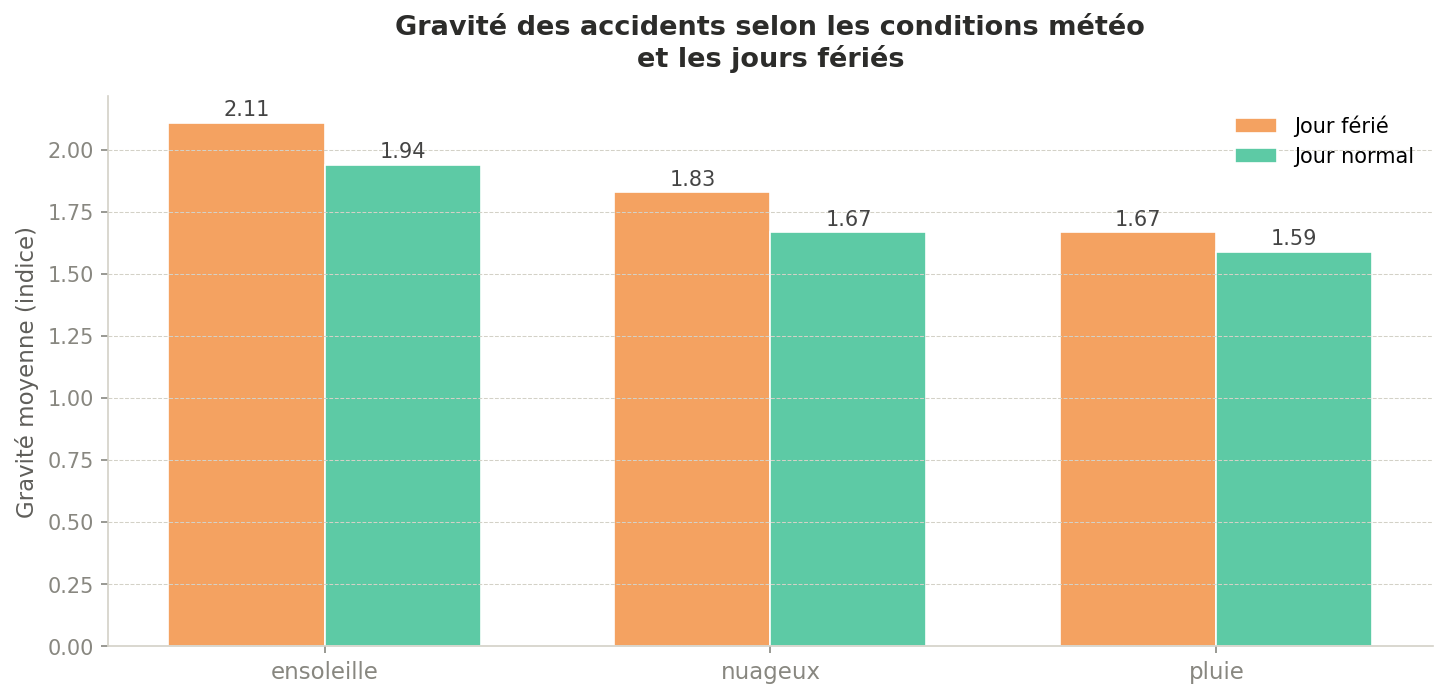
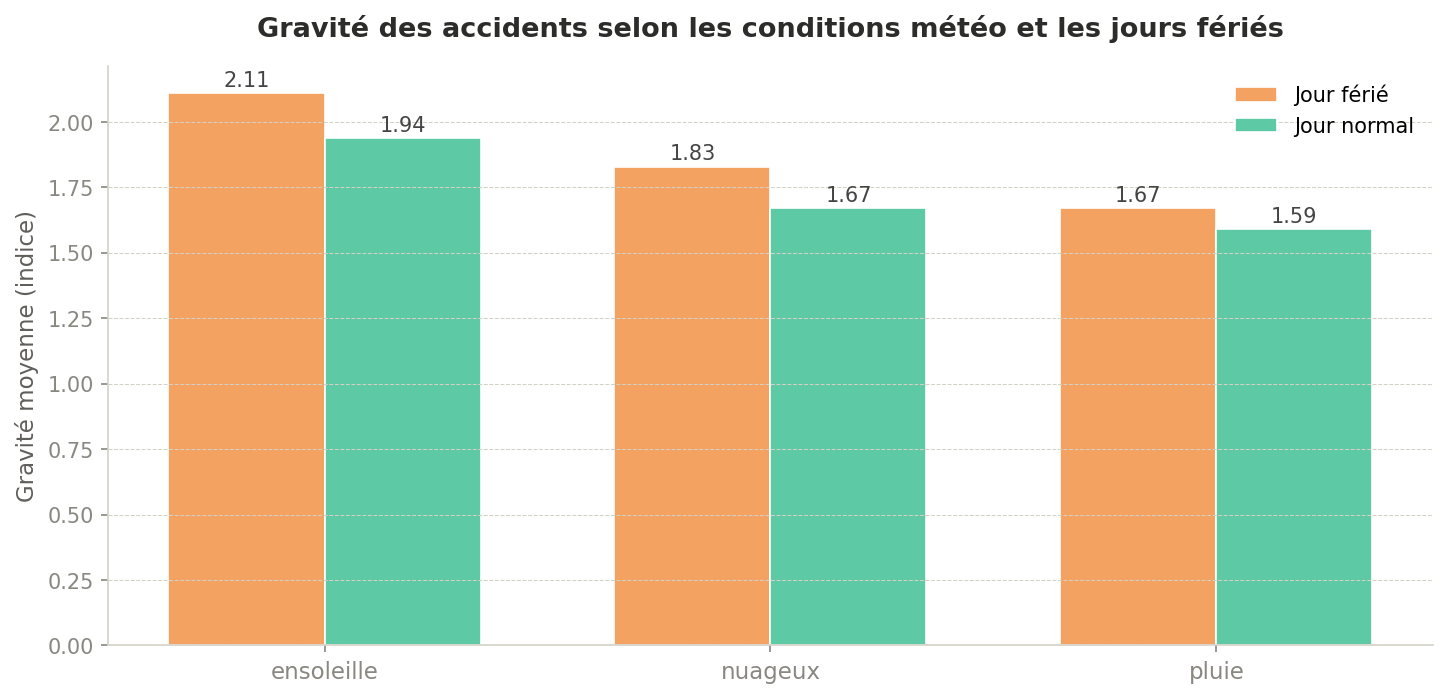
adding request visualizations

diff --git a/src/queries/visualisation_queries/visualisation_q2_q3.py b/src/queries/visualisation_queries/visualisation_q2_q3.py
@@ -1,6 +1,5 @@
 import pandas as pd
 import matplotlib.pyplot as plt
-import matplotlib.patches as mpatches
 import psycopg2
 
 # ─────────────────────────────────────────────────────────────
@@ -14,20 +13,21 @@ conn = psycopg2.connect(
 )
 
 # ─────────────────────────────────────────────────────────────
-# REQUÊTE 1 — Gravité moyenne par sexe et pays (sans LIMIT ni ROLLUP)
+# REQUÊTE 1 — Proportion d'accidents graves par sexe et pays
+# accidents graves = indice_gravite > 4
 # ─────────────────────────────────────────────────────────────
 q1 = """
     SELECT
         p.nom_pays,
         u.sexe,
-        ROUND(AVG(f.indice_gravite)::numeric, 2) AS gravite_moyenne,
-        COUNT(DISTINCT f.id_accident)             AS nb_accidents
+        COUNT(DISTINCT f.id_accident) AS nb_accidents_graves
     FROM FAIT_ACCIDENT f
     JOIN DIM_PAYS   p ON p.id_pays   = f.id_pays
     JOIN DIM_USAGER u ON u.id_usager = f.id_usager
     WHERE u.sexe IN ('Male', 'Female')
+      AND f.indice_gravite > 4
     GROUP BY p.nom_pays, u.sexe
-    ORDER BY p.nom_pays, gravite_moyenne DESC;
+    ORDER BY p.nom_pays, u.sexe;
 """
 df1 = pd.read_sql(q1, conn)
 
@@ -50,55 +50,45 @@ df2 = pd.read_sql(q2, conn)
 conn.close()
 
 # ─────────────────────────────────────────────────────────────
-# FIGURE 1 — Gravité moyenne par sexe et pays
-# But : montrer que les hommes ont des accidents plus graves
+# FIGURE 1 — Camemberts proportion accidents graves Homme vs Femme
 # ─────────────────────────────────────────────────────────────
-fig, axes = plt.subplots(1, 2, figsize=(12, 5), sharey=False)
+fig, axes = plt.subplots(1, 2, figsize=(12, 6))
 fig.patch.set_facecolor("#ffffff")
-fig.suptitle("Les hommes sont-ils responsables d'accidents plus graves ?",
-             fontsize=14, fontweight="bold", color="#2C2C2A", y=1.02)
+fig.suptitle("Proportion d'accidents graves : Hommes vs Femmes",
+             fontsize=15, fontweight="bold", color="#2C2C2A", y=0.98)
 
-couleurs = {"Male": "#E05C5C", "Female": "#5B9BD5"}
+couleurs = ["#E8813A", "#2ECC9A"]  # orange = Male, vert = Female
 
 for ax, pays in zip(axes, ["France", "Royaume-Uni"]):
-    subset = df1[df1["nom_pays"] == pays].sort_values("gravite_moyenne", ascending=True)
-    bars = ax.barh(
-        subset["sexe"],
-        subset["gravite_moyenne"],
-        color=[couleurs[s] for s in subset["sexe"]],
-        edgecolor="white",
-        height=0.5
+    subset = df1[df1["nom_pays"] == pays].set_index("sexe")
+    valeurs = [
+        subset.loc["Male",   "nb_accidents_graves"] if "Male"   in subset.index else 0,
+        subset.loc["Female", "nb_accidents_graves"] if "Female" in subset.index else 0,
+    ]
+    labels  = ["Hommes", "Femmes"]
+    total   = sum(valeurs)
+
+    wedges, texts, autotexts = ax.pie(
+        valeurs,
+        labels=labels,
+        colors=couleurs,
+        autopct="%1.1f%%",
+        startangle=90,
+        pctdistance=0.75,
+        wedgeprops=dict(edgecolor="white", linewidth=2),
+        explode=(0.05, 0),   # légère mise en avant des hommes
     )
-    # Valeurs dans les barres
-    for bar, val in zip(bars, subset["gravite_moyenne"]):
-        ax.text(val - 0.02, bar.get_y() + bar.get_height() / 2,
-                f"{val:.2f}", ha="right", va="center",
-                fontsize=13, fontweight="bold", color="white")
 
-    # Différence en annotation
-    vals = subset.set_index("sexe")["gravite_moyenne"]
-    if "Male" in vals and "Female" in vals:
-        diff = vals["Male"] - vals["Female"]
-        ax.annotate(f"Écart : +{diff:.2f} pour les hommes",
-                    xy=(vals["Male"], 1),
-                    xytext=(vals["Male"] * 0.5, 1.35),
-                    fontsize=9, color="#E05C5C",
-                    arrowprops=dict(arrowstyle="->", color="#E05C5C", lw=1.2))
+    for text in texts:
+        text.set_fontsize(12)
+        text.set_color("#2C2C2A")
+    for autotext in autotexts:
+        autotext.set_fontsize(12)
+        autotext.set_fontweight("bold")
+        autotext.set_color("white")
 
-    ax.set_title(pays, fontsize=12, fontweight="bold", color="#2C2C2A")
-    ax.set_xlabel("Gravité moyenne (indice)", fontsize=10, color="#5F5E5A")
-    ax.set_xlim(0, df1["gravite_moyenne"].max() * 1.2)
-    ax.set_facecolor("#ffffff")
-    ax.spines["top"].set_visible(False)
-    ax.spines["right"].set_visible(False)
-    ax.spines["left"].set_color("#D3D1C7")
-    ax.spines["bottom"].set_color("#D3D1C7")
-    ax.tick_params(colors="#888780")
-    ax.grid(axis="x", color="#D3D1C7", linewidth=0.5, linestyle="--")
-
-patches = [mpatches.Patch(color=couleurs[s], label=s) for s in ["Male", "Female"]]
-fig.legend(handles=patches, fontsize=10, framealpha=0,
-           loc="lower center", ncol=2, bbox_to_anchor=(0.5, -0.05))
+    ax.set_title(f"{pays}\n({total:,} accidents graves)",
+                 fontsize=12, fontweight="bold", color="#2C2C2A", pad=16)
 
 plt.tight_layout(pad=2.0)
 plt.savefig("docs/images/gravite_sexe_pays.png", dpi=150, bbox_inches="tight")
@@ -137,7 +127,7 @@ for i, jour in enumerate(jours):
 ax2.set_xticks(list(x))
 ax2.set_xticklabels(conditions, fontsize=11)
 ax2.set_ylabel("Gravité moyenne (indice)", fontsize=11, color="#5F5E5A")
-ax2.set_title("Gravité des accidents selon les conditions météo\net les jours fériés",
+ax2.set_title("Gravité des accidents selon les conditions météo et les jours fériés",
               fontsize=13, fontweight="bold", color="#2C2C2A", pad=14)
 ax2.set_facecolor("#ffffff")
 ax2.spines["top"].set_visible(False)
